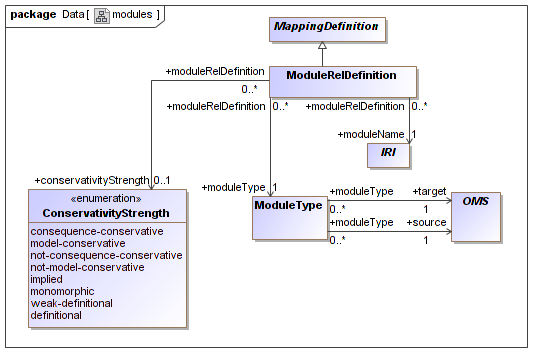
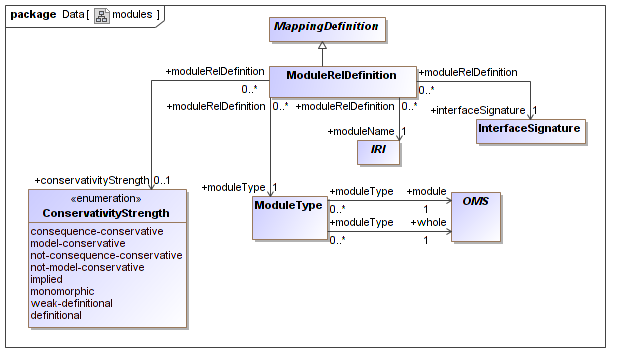
syntax: native OMS; OMS mappings

diff --git a/Standard/OMG_OntoIOp_current.tex b/Standard/OMG_OntoIOp_current.tex
@@ -4181,9 +4181,19 @@ The \DOL document types are as follows
 Additionally, the \cbs MOF metaclasses \cbe of the abstract syntaxes
 of any conforming OMS languages (\cf \cref{c:conform:logic}) \cbs are
 subclasses of the \DOL metaclass \syntax{NativeDocument}.
+
+\medskip
+\begin{center}
+\includegraphics[scale=0.47]{mof/native_document.png}
+\end{center}
+
 If a conforming OMS language has a metaclass for basic OMS,
 this is a subclass of the metaclass \syntax{BasicOMS}.\cbe
 
+\medskip
+\begin{center}
+\includegraphics[scale=0.47]{mof/basic_oms.png}
+\end{center}
 
 
 
@@ -4601,35 +4611,74 @@ grouping results in a parse error.
 \ssclause{Abstract Syntax}
 
 
-An OMS mapping provides a connection between two OMS. An OMS mapping definition is the definition of 
-either a named interpretation (\syntax{InterpretationDefinition}, \syntax{EntailmentDefinition} or 
-\syntax{EquivalenceDefinition}), a named declaration of the  relation between a module of an OMS and the whole 
-OMS (\syntax{ModuleRelDefinition}), or a named \termref{alignment} (\syntax{AlignmentDefinition}).
+An OMS mapping provides a connection between two OMS. An OMS mapping
+definition is the definition of either a named interpretation
+(\syntax{InterpretationDefinition}, entailment (\syntax{EntailmentDefinition}),
+refinement (\syntax{RefinementDefinition}) or equivalence
+(\syntax{EquivalenceDefinition}), a named declaration of the relation
+between a module of an OMS and the whole OMS
+(\syntax{ModuleRelDefinition}), or a named \termref{alignment}
+(\syntax{AlignmentDefinition}).
 
+Both interpretation and refinements specify a logical entailment or
+specialization relation between OMS. An
+\syntax{InterpretationDefinition} specifies source and target OMS
+(forming the \syntax{InterpretationType}), as well as a
+\syntax{SymbolMap} and/or an \syntax{OMSLanguageTranslation}.  The
+\syntax{SymbolMap} in an interpretation always must lead to a
+signature morphism. A proof obligation expressing that the source OMS,
+when translated along the signature morphism and/or the
+\syntax{OMSLanguageTranslation}, logically follows from the target OMS
+is generated.
+
+\syntax{Refinement}s subsume interpretations (via
+\syntax{SimpleRefinement}s), but allow the specification of much more
+complex relation between OMS (and OMS networks).  The style differs
+from interpretation in that even a single OMS is a refinement (via
+\syntax{RefinementOMS}); this corresponds to the source of an
+interpretation. Using \syntax{SimpleOMSRefinement}s, a refinment can
+be further specialized to a (target) OMS via an
+\syntax{OMSRefinementMap}. The latter involves a symbol map and/or OMS
+language translation, analogously to interpretations.  With this style
+of notation, simple refinements can be easily chained up (which cannot
+be done using interpretations).  Refinements can also be composed
+(\syntax{RefinementComposition}), provided that the target of the
+first refinement matches the source of the second one. Furthermore,
+refinements can also be specified between networks
+(\syntax{SimpleNetworkRefinement}).  A refinement between OMS networks
+has to specify both a mapping (\syntax{NodeMap}) between the nodes of
+the OMS network, as well as, for each node, a symbol map from the OMS
+of that node to the target OMS to which it is mapped (this is a
+\syntax{NetworkRefinementMap}). 
+
+\medskip
 \begin{center}
 \includegraphics[scale=0.47]{mof/interpretations&refinements.png}
-
-\includegraphics[scale=0.47]{mof/entailment&equivalence.png}
-
-\includegraphics[scale=0.47]{mof/modules.png}
-
 \end{center}
 
-The \syntax{SymbolMap} in an interpretation always must lead to a signature morphism; a proof 
-obligation expressing that the (translated) source OMS logically follows from the target OMS is 
-generated.  An entailment is a variant where all symbols are mapped identically, while an 
-equivalence states that the model classes of two OMS are in bijective correspondence.
 
-Interpretations, entailments and equivalences between OMS networks are also possible. An 
-interpretation between OMS networks has to specify both a mapping between the nodes of the OMS 
-network, as well as, for each node, a symbol map from the OMS of that node to the target OMS to 
-which it is mapped.
-%\ednote{In equivalences between OMS networks, should we allow for node mappings 
-%as well? In  \cite{MossakowskiTarlecki09}, this is allowed.
-%--- No, since we do not allow for signature morphisms either.}
+An entailment is a variant of an interpretation where all symbols are
+mapped identically, while an equivalence states that the model classes
+of two OMS are in bijective correspondence. As for refinements,
+entailments and equivalences are also possible between networks
+(\syntax{NetworkNetworkEntailment} and \syntax{NetworkEquivalence}).
+An entailment between a network as premise and an OMS as conclusion
+(\syntax{NetworkOMSEntailment}) specifies that all models of the
+network, when restricted to a given node (given by an IRI), are
+models of the OMS.
+
+\begin{center}
+\includegraphics[scale=0.47]{mof/entailment&equivalence.png}
+\end{center}
 
 
-In contrast to this functional style of mapping symbols, an alignment provides a relational 
+
+
+
+
+Signature morphisms used in interpretations and refinements use
+a functional style of mapping symbols of OMS.
+In contrast to this style, an alignment provides a relational 
 connection between two OMS,  using a set of \syntax{Correspondence}s. Each correspondence may relate 
 some OMS non-logical symbol to another one (possibly given by a term) with an optional confidence 
 value. Moreover, the relation between the two non-logical symbols can be explicitly
@@ -4651,11 +4700,14 @@ or whether several local domains are linked (``contextualized'') by relations.
 \includegraphics[scale=0.47]{mof/alignment.png}
 \end{center}
 
-A \syntax{ModuleRelDefinition} declares that a certain OMS
-actually is a module of some other OMS with respect
+A \syntax{ModuleRelDefinition} declares that a certain (``module'') OMS
+actually is a module of some other (``whole'') OMS with respect
 to the \syntax{InterfaceSignature}.
 
 
+\begin{center}
+\includegraphics[scale=0.47]{mof/modules.png}
+\end{center}
 
 
 A symbol map in an interpretation is \required to cover all non-logical symbols of the source OMS; 
